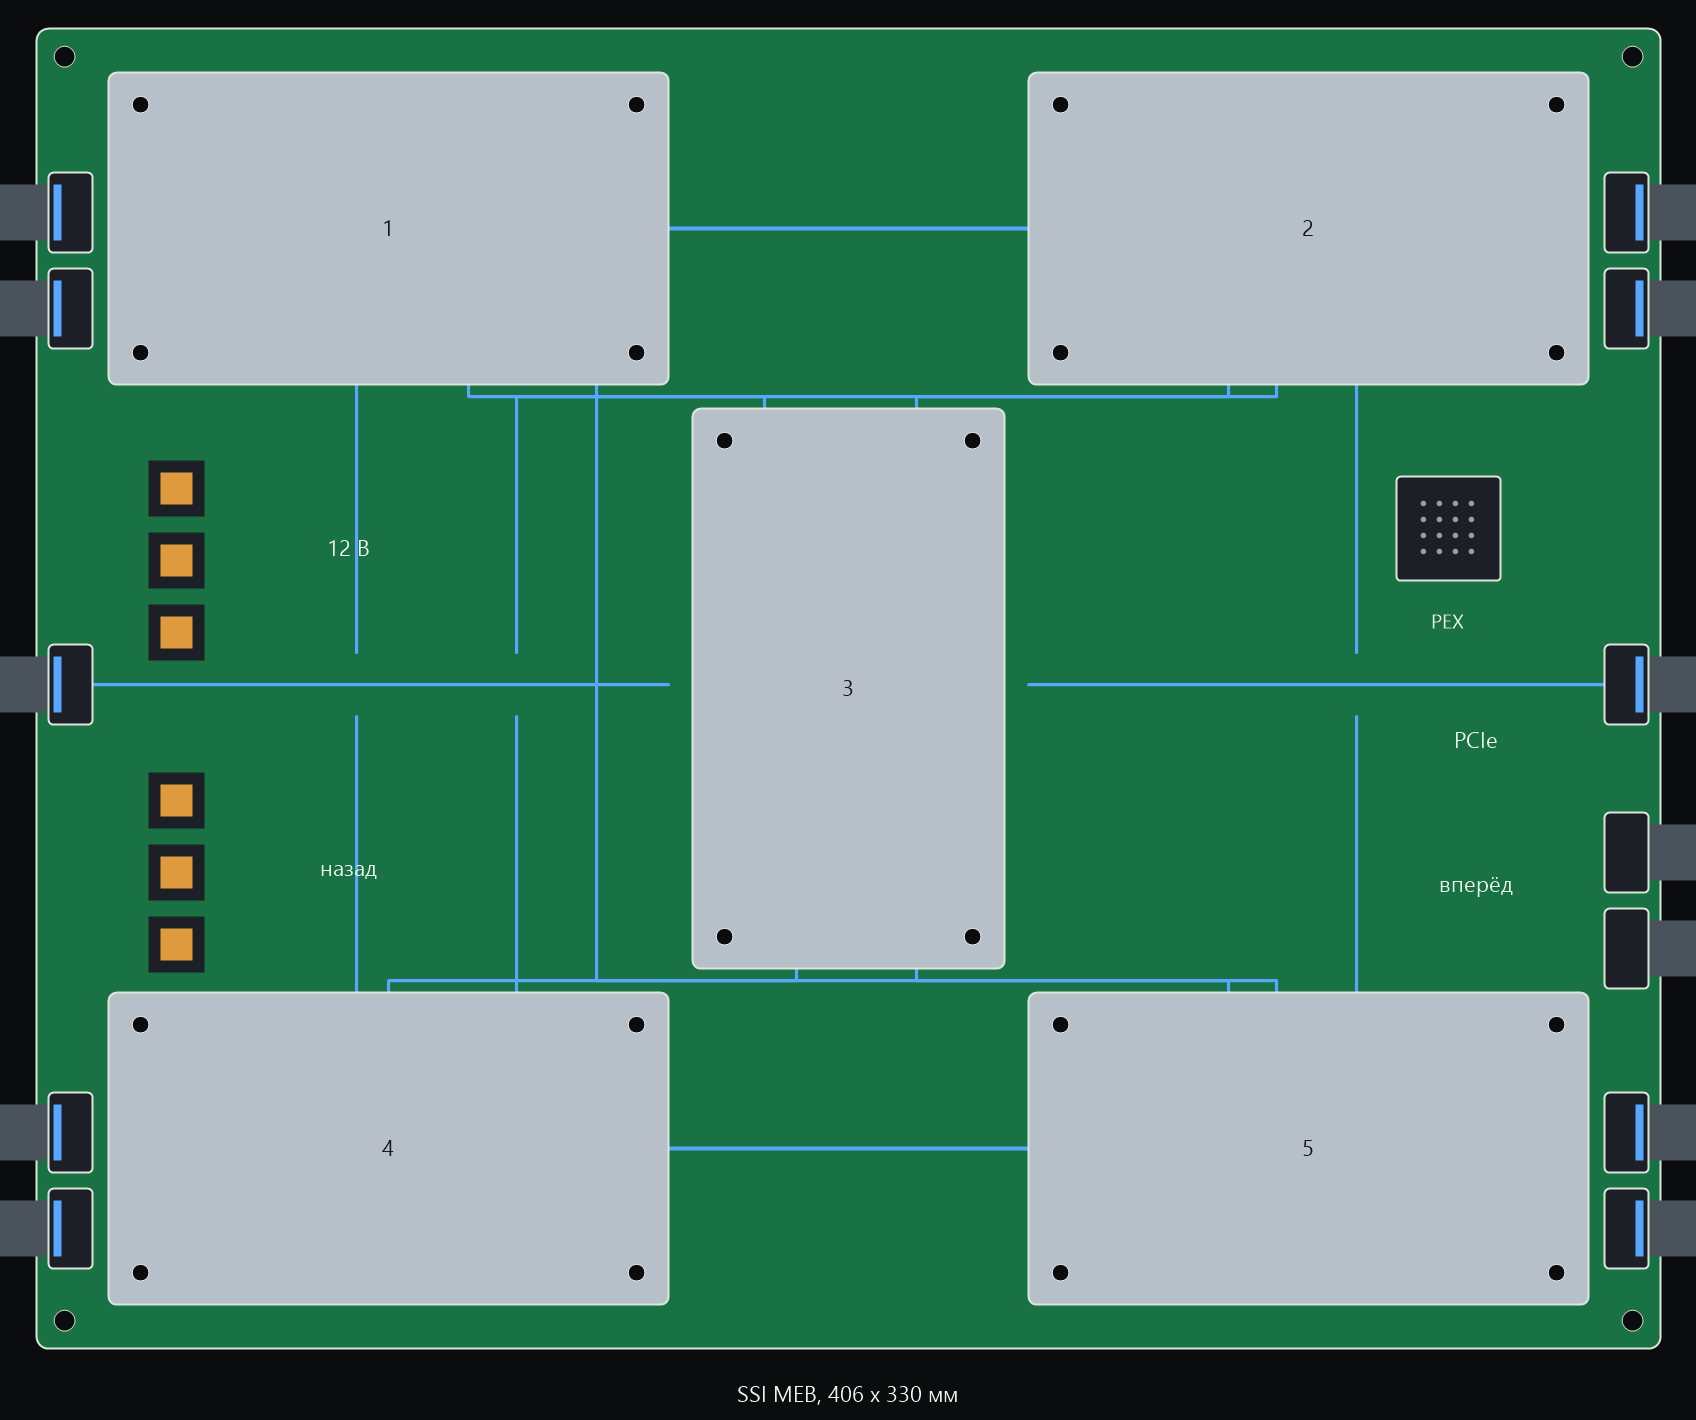
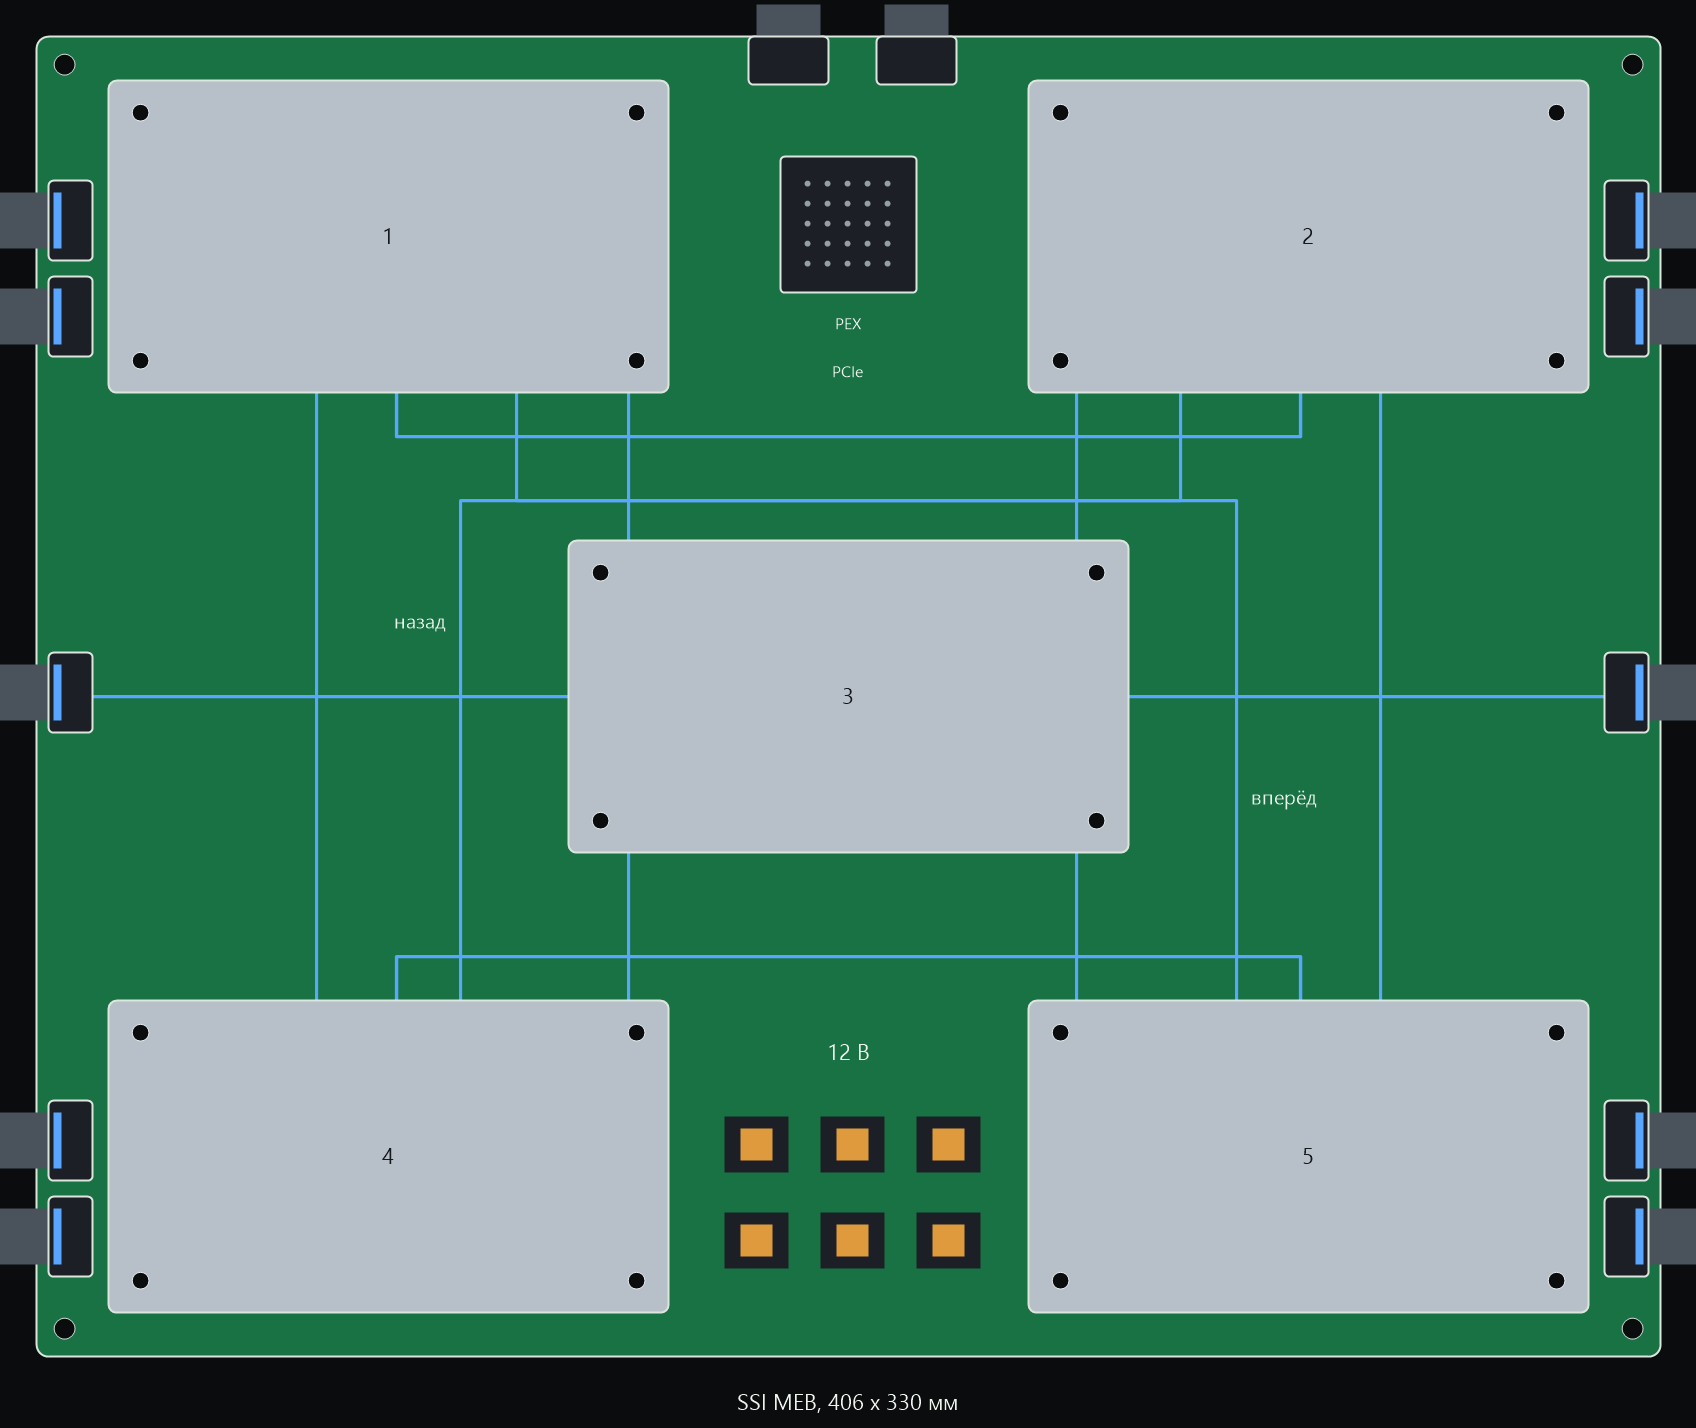
Show the center module flat, with 12 V below and PCIe above.

diff --git a/README.md b/README.md
@@ -12,7 +12,7 @@ Open V100 SXM2 boards: five GPUs on a card, NVLink pass-through to the next card
 
 ![Макет платы: пять V100 цифрой 5 на контуре SSI MEB](docs/board.png)
 
-Плата повторяет контур SSI MEB, 406 × 330 мм. Четыре модуля лежат по углам, центральный стоит. Синие линии — четыре линка на плате, разъёмы по бокам смотрят на соседнюю плату.
+Плата повторяет контур SSI MEB, 406 × 330 мм. Четыре модуля лежат по углам, центральный тоже лежит. Питание внизу между чипами, PCIe сверху. Синие линии — четыре линка на плате, разъёмы по бокам смотрят на соседнюю плату.
 
 ## Порядок
 
